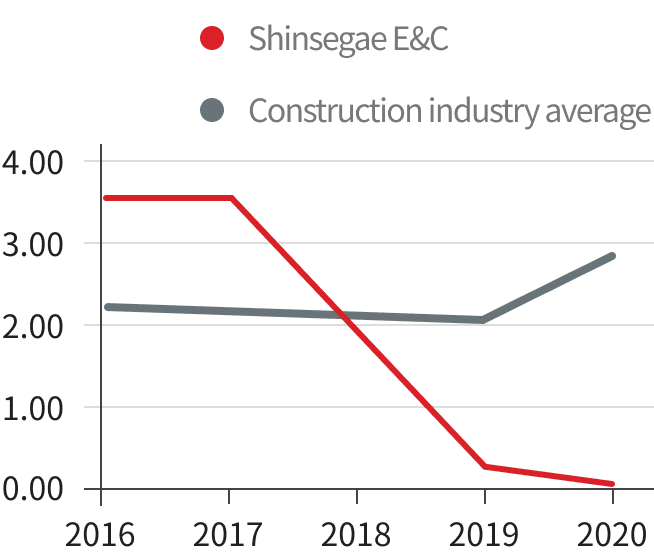
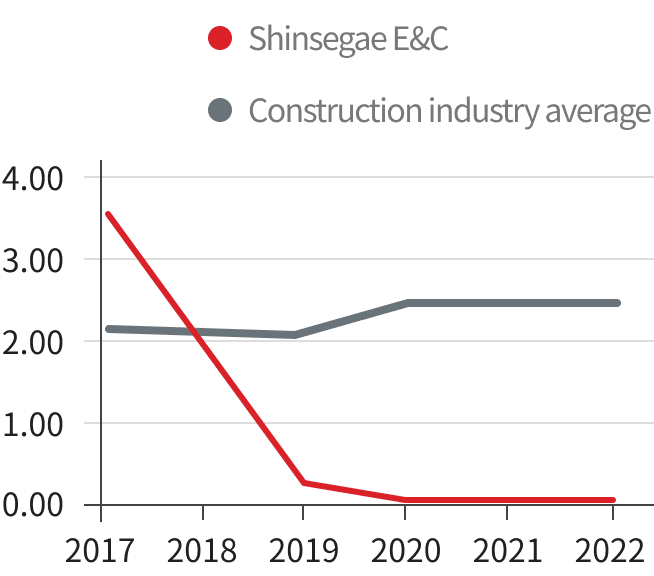
안전보건경영 - 재해현황

diff --git a/resources/views/main/en/csr/cr_01_05.blade.php b/resources/views/main/en/csr/cr_01_05.blade.php
@@ -243,64 +243,70 @@
           </div>
 
           <div class="scroll-box">
-            <table class="tbl-list">
-              <caption><span class="blind">재해현황 정보</span></caption>
-              <colgroup>
-                <col style="width:15%;">
-                <col style="width:15%;">
-                <col style="width:14%;">
-                <col style="width:14%;">
-                <col style="width:14%;">
-                <col style="width:14%;">
-                <col style="width:14%;">
-              </colgroup>
-              <thead>
-              <tr>
-                <th scope="col" colspan="2">Category</th>
-                <th scope="col">2017</th>
-                <th scope="col">2018</th>
-                <th scope="col">2019</th>
-                <th scope="col">2020</th>
-                <th scope="col">2021</th>
-              </tr>
-              </thead>
-              <tbody>
-              <tr>
-                <th scope="row" rowspan="2">Casualties</th>
-                <th scope="row">Employee</th>
-                <td>0</td>
-                <td>0</td>
-                <td>0</td>
-                <td>0</td>
-                <td>0</td>
-              </tr>
-              <tr>
-                <th scope="row">Partners</th>
-                <td>3</td>
-                <td>0</td>
-                <td>0</td>
-                <td>0</td>
-                <td>0</td>
-              </tr>
-              <tr>
-                <th scope="row" rowspan="2">Mortality rate</th>
-                <th scope="row">Shinsegae E&C</th>
-                <td>3.52</td>
-                <td>1.85</td>
-                <td>0.28</td>
-                <td>0.00</td>
-                <td>0.00</td>
-              </tr>
-              <tr>
-                <th scope="row">Construction<br>industry average</th>
-                <td>2.18</td>
-                <td>2.15</td>
-                <td>2.01</td>
-                <td>2.5</td>
-                <td>2.2</td>
-              </tr>
-              </tbody>
-            </table>
+	          <table class="tbl-list">
+		          <caption><span class="blind">재해현황 정보</span></caption>
+		          <colgroup>
+			          <col style="width:14%;">
+			          <col style="width:14%;">
+			          <col style="width:12%;">
+			          <col style="width:12%;">
+			          <col style="width:12%;">
+			          <col style="width:12%;">
+			          <col style="width:12%;">
+			          <col style="width:12%;">
+		          </colgroup>
+		          <thead>
+		          <tr>
+			          <th scope="col" colspan="2">Category</th>
+			          <th scope="col">2017</th>
+			          <th scope="col">2018</th>
+			          <th scope="col">2019</th>
+			          <th scope="col">2020</th>
+			          <th scope="col">2021</th>
+			          <th scope="col">2022</th>
+		          </tr>
+		          </thead>
+		          <tbody>
+		          <tr>
+			          <th scope="row" rowspan="2">Casualties</th>
+			          <th scope="row">Employee</th>
+			          <td>0</td>
+			          <td>0</td>
+			          <td>0</td>
+			          <td>0</td>
+			          <td>0</td>
+			          <td>0</td>
+		          </tr>
+		          <tr>
+			          <th scope="row">Partners</th>
+			          <td>3</td>
+			          <td>0</td>
+			          <td>0</td>
+			          <td>0</td>
+			          <td>0</td>
+			          <td>0</td>
+		          </tr>
+		          <tr>
+			          <th scope="row" rowspan="2">Mortality rate</th>
+			          <th scope="row">Shinsegae E&C</th>
+			          <td>3.52</td>
+			          <td>1.85</td>
+			          <td>0.28</td>
+			          <td>0.00</td>
+			          <td>0.00</td>
+			          <td>0.00</td>
+		          </tr>
+		          <tr>
+			          <th scope="row">Construction<br>industry average</th>
+			          <td>2.18</td>
+			          <td>2.15</td>
+			          <td>2.01</td>
+			          <td>2.5</td>
+			          <td>2.2</td>
+			          <td>2.06</td>
+		          </tr>
+		          </tbody>
+	          </table>
           </div>
           <p class="sg-text-09">※ Excluding on-site fatalities of our joint subcontractor members</p>
 

diff --git a/resources/views/main/ko/csr/cr_01_05.blade.php b/resources/views/main/ko/csr/cr_01_05.blade.php
@@ -250,13 +250,14 @@
             <table class="tbl-list">
               <caption><span class="blind">재해현황 정보</span></caption>
               <colgroup>
-                <col style="width:15%;">
-                <col style="width:15%;">
                 <col style="width:14%;">
                 <col style="width:14%;">
-                <col style="width:14%;">
-                <col style="width:14%;">
-                <col style="width:14%;">
+                <col style="width:12%;">
+                <col style="width:12%;">
+                <col style="width:12%;">
+                <col style="width:12%;">
+                <col style="width:12%;">
+                <col style="width:12%;">
               </colgroup>
               <thead>
               <tr>
@@ -266,12 +267,14 @@
                 <th scope="col">2019</th>
                 <th scope="col">2020</th>
                 <th scope="col">2021</th>
+                <th scope="col">2022</th>
               </tr>
               </thead>
               <tbody>
               <tr>
                 <th scope="row" rowspan="2">사망자</th>
                 <th scope="row">임직원</th>
+                <td>0</td>
                 <td>0</td>
                 <td>0</td>
                 <td>0</td>
@@ -285,6 +288,7 @@
                 <td>0</td>
                 <td>0</td>
                 <td>0</td>
+                <td>0</td>
               </tr>
               <tr>
                 <th scope="row" rowspan="2">만인율</th>
@@ -292,6 +296,7 @@
                 <td>3.52</td>
                 <td>1.85</td>
                 <td>0.28</td>
+                <td>0.00</td>
                 <td>0.00</td>
                 <td>0.00</td>
               </tr>
@@ -302,6 +307,7 @@
                 <td>2.01</td>
                 <td>2.5</td>
                 <td>2.2</td>
+                <td>2.06</td>
               </tr>
               </tbody>
             </table>
